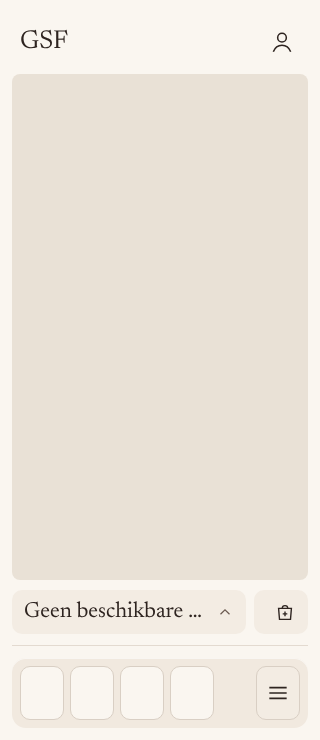
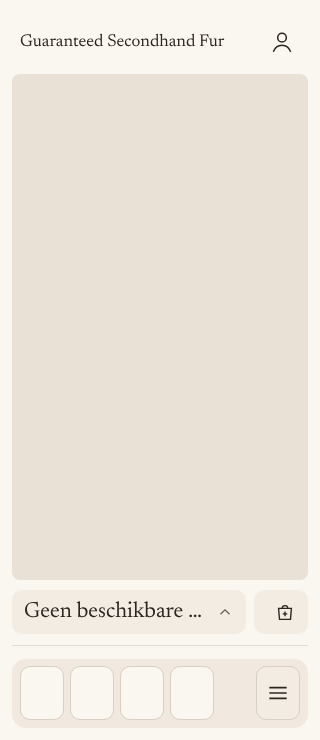
Volledige naam overal, app-icoon "kantrand" als vectortekening
- Guaranteed Secondhand Fur voluit: titel, merknaam in de boetiek (één
  regel, 16–22 px) en in het beheer (twee regels naast de iconen).
- App-icoon gekozen door Martijn: ovaal met kantrand en GSF in Newsreader
  (app/icons/gsf-kantrand.svg); PNG's in alle maten opnieuw gemaakt.
  Naam onder het icoon: "Guaranteed".
- Layouttest: referentie optie B krijgt dezelfde naam en maat.
- docs/CONCEPT.md bijgewerkt; schermafbeeldingen vernieuwd.

Claude-Session: https://claude.ai/code/session_016f11jEqhp66ZoTUcXdQuNX

Changed region(s): [[0.0625, 0.0311, 0.6875, 0.0622]]

diff --git a/app/index.html b/app/index.html
@@ -1,8 +1,8 @@
 <!doctype html>
-<html lang="nl"><head><meta charset="utf-8"><meta name="viewport" content="width=device-width,initial-scale=1,viewport-fit=cover"><meta name="theme-color" content="#FAF6F0"><title>GSF · Guaranteed Secondhand Fur</title><link rel="manifest" href="manifest.webmanifest"><link rel="icon" href="icons/favicon-32.png" sizes="32x32" type="image/png"><link rel="apple-touch-icon" href="icons/apple-touch-icon.png"><meta name="apple-mobile-web-app-title" content="GSF"><meta name="apple-mobile-web-app-capable" content="yes"><meta name="mobile-web-app-capable" content="yes"><meta name="apple-mobile-web-app-status-bar-style" content="default">
+<html lang="nl"><head><meta charset="utf-8"><meta name="viewport" content="width=device-width,initial-scale=1,viewport-fit=cover"><meta name="theme-color" content="#FAF6F0"><title>Guaranteed Secondhand Fur</title><link rel="manifest" href="manifest.webmanifest"><link rel="icon" href="icons/favicon-32.png" sizes="32x32" type="image/png"><link rel="apple-touch-icon" href="icons/apple-touch-icon.png"><meta name="apple-mobile-web-app-title" content="Guaranteed"><meta name="apple-mobile-web-app-capable" content="yes"><meta name="mobile-web-app-capable" content="yes"><meta name="apple-mobile-web-app-status-bar-style" content="default">
 <link rel="preconnect" href="https://fonts.googleapis.com"><link rel="preconnect" href="https://fonts.gstatic.com" crossorigin>
 <link rel="stylesheet" href="https://fonts.googleapis.com/css2?family=Newsreader:opsz,wght@6..72,400;6..72,500&display=swap"><link rel="stylesheet" href="style.css"></head>
-<body data-screen="shop"><header class="app-header"><div class="app-toolbar"><strong title="Guaranteed Secondhand Fur">GSF</strong><nav aria-label="Schermen">
+<body data-screen="shop"><header class="app-header"><div class="app-toolbar"><strong class="brand-name" aria-label="Guaranteed Secondhand Fur"><span>Guaranteed</span><span>Secondhand Fur</span></strong><nav aria-label="Schermen">
 <button data-screen="shop" aria-label="Boetiek" title="Boetiek" data-icon="hanger" aria-pressed="true"></button>
 <button id="reload" aria-label="Collectie vernieuwen" title="Collectie vernieuwen" data-icon="refresh"></button>
 <button data-screen="manage" aria-label="Jouw collectie" title="Jouw collectie" data-icon="account" aria-pressed="false"></button></nav></div></header>

diff --git a/app/style.css b/app/style.css
@@ -4,7 +4,8 @@
 body { margin: 0; height: 100dvh; display: flex; flex-direction: column; background: var(--bg); color: var(--fg); font: 16px/1.5 var(--serif); }
 .app-header { flex: none; border-bottom: 1px solid var(--line); padding-top: env(safe-area-inset-top); }
 .app-toolbar { max-width: 720px; margin: auto; padding: 12px max(16px, env(safe-area-inset-right)) 12px max(16px, env(safe-area-inset-left)); display: flex; align-items: center; justify-content: space-between; gap: 8px; }
-.app-toolbar strong { font-size: clamp(20px, 6vw, 24px); font-weight: 400; white-space: nowrap; }
+/* Full brand name on two lines next to the icons (Martijn, 14 November 2026). */
+.app-toolbar strong { display: flex; flex-direction: column; font-size: 18px; line-height: 1.1; font-weight: 400; white-space: nowrap; }
 .app-toolbar nav, #manage-actions { display: flex; gap: 4px; }
 button { font: inherit; min-height: 44px; padding: 9px 16px; border: 1px solid var(--line); border-radius: 6px; background: transparent; color: var(--fg); cursor: pointer; touch-action: manipulation; }
 button:hover { background: var(--surface); }

diff --git a/app/store-layout.css b/app/store-layout.css
@@ -91,3 +91,6 @@ button:disabled { cursor: default; }
 .taste-label { flex: 1; min-width: 0; overflow-wrap: anywhere; }
 .taste-section .ic { min-width: 44px; min-height: 44px; }
 .taste-clear { width: 100%; min-height: 48px; margin-top: 24px; }
+
+/* Full brand name on one line (Martijn, 14 November 2026): 22px like option B, smaller on narrow phones, never under 16px. */
+.brand { font-size: max(16px, min(22px, 5.4vw)); white-space: nowrap; }

diff --git a/docs/CONCEPT.md b/docs/CONCEPT.md
@@ -4,7 +4,7 @@ Status: **brainstorm**. Niets in dit document is een bouwopdracht of definitief 
 
 ## Vastgesteld door Martijn
 
-- **Naam (14 november 2026): GSF, voluit Guaranteed Secondhand Fur.** De website heet niet meer Nikki's Boetiek. Bij elk stuk gaat een broche mee (ontwerp in uitvoering, wel vaststaand; beeld: [brand/gsf-broche.webp](brand/gsf-broche.webp), met de tekst "Reworn. Respected. Responsible."). De broche is ook het app-icoon.
+- **Naam (14 november 2026): Guaranteed Secondhand Fur (afgekort GSF).** In de website staat overal de volledige naam; GSF alleen op het app-icoon. De website heet niet meer Nikki's Boetiek. Bij elk stuk gaat een broche mee (ontwerp in uitvoering, wel vaststaand; beeld: [brand/gsf-broche.webp](brand/gsf-broche.webp), met de tekst "Reworn. Respected. Responsible."). Het app-icoon is een abstracte versie: een ovaal met een kantrand en GSF in het midden ([brand/gsf-app-icoon.svg](brand/gsf-app-icoon.svg)).
 - Assortiment: vooral vintage bontjassen, leren jassen, shearling en vergelijkbare outerwear.
 - Inkoop: Nikki koopt zelf in op markten en via connecties en houdt eigen voorraad. Geen marketplace van andere verkopers, voor nu.
 - Focus: de website en de verkoopervaring. De meet-/verstelbare paspop staat **on hold** (zie onderaan).
